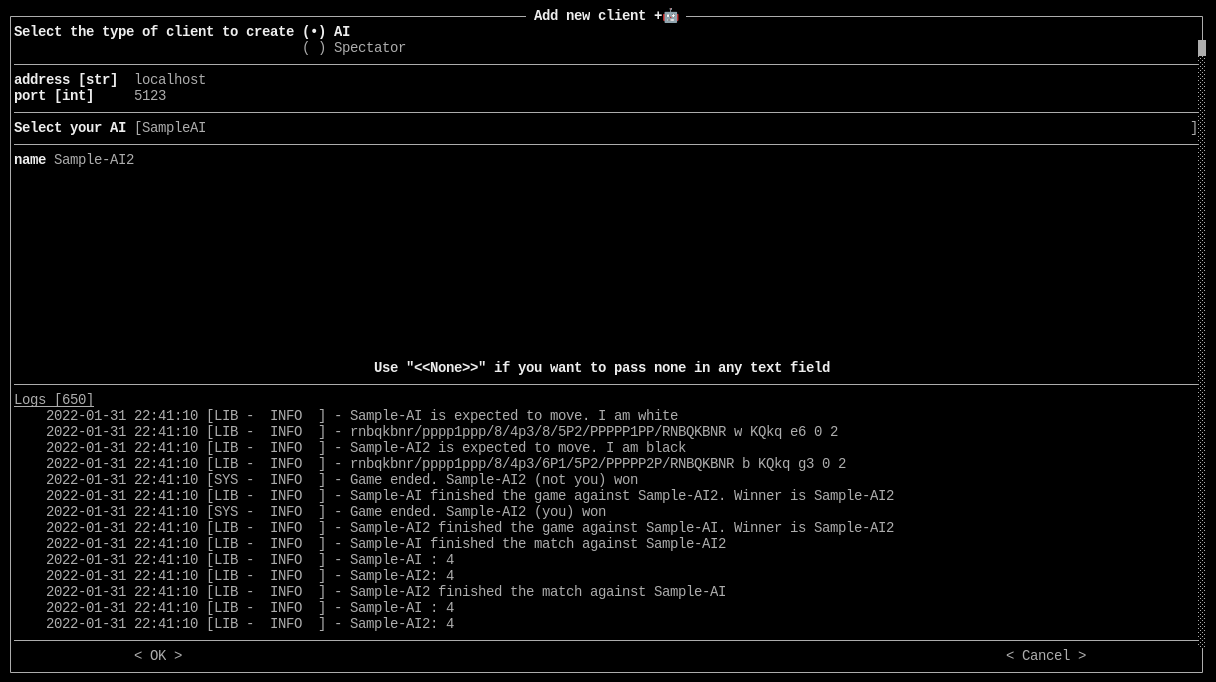
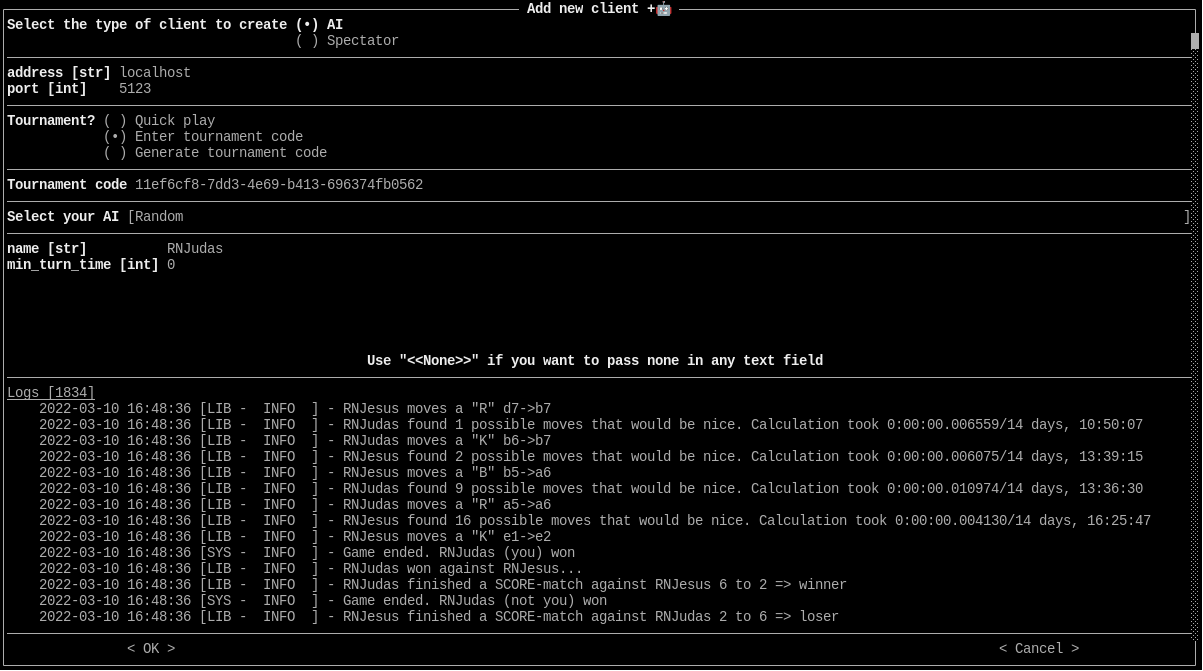
Implemented tournament code for AIs

Changed region(s): [[0.0, 0.0, 1.0, 1.0], [0.2768, 0.5067, 0.7074, 0.5663], [0.8612, 0.775, 0.8919, 0.8048]]

diff --git a/j_chess_client_manager/ui/frames/client_view.py b/j_chess_client_manager/ui/frames/client_view.py
@@ -1,11 +1,13 @@
 from enum import Enum
 import inspect
 from typing import Dict, Callable, Any
+from uuid import uuid4, UUID
 
+import pyperclip
 from asciimatics.exceptions import NextScene, ResizeScreenError, StopApplication, InvalidFields, Highlander
 from asciimatics.screen import Screen
 from asciimatics.widgets import (
-    Frame, Layout, Text, TextBox, Button, DropdownList, RadioButtons, Label, Divider, PopUpDialog
+    Frame, Layout, Text, TextBox, Button, DropdownList, RadioButtons, Label, Divider, PopUpDialog, CheckBox
 )
 from j_chess_lib.ai import AI, StoreAI, DumbAI
 from j_chess_lib.ai.Sample import SampleAI
@@ -49,9 +51,15 @@ class ClientView(Frame):
         # Create the form for displaying the list of contacts.
         selection_layout = Layout([100], fill_frame=False)
         self._type_layout = Layout([100], fill_frame=False)
+        self._tournament_selection_layout = Layout([100], fill_frame=False)
+        self._tournament_layout = Layout([100], fill_frame=False)
+        self._component_selection_layout = Layout([100], fill_frame=False)
         self._component_layout = Layout([100], fill_frame=True)
         self.add_layout(selection_layout)
         self.add_layout(self._type_layout)
+        self.add_layout(self._tournament_selection_layout)
+        self.add_layout(self._tournament_layout)
+        self.add_layout(self._component_selection_layout)
         self.add_layout(self._component_layout)
         selection_layout.add_widget(self._type_selector)
 
@@ -80,6 +88,64 @@ class ClientView(Frame):
             self._type_layout.add_widget(widget)
 
         self._type_layout.add_widget(Divider())
+
+        tournament_selector = [None]
+
+        def tournament_selection():
+            self._tournament_layout.clear_widgets()
+            selected_tournament = tournament_selector[0].value
+            _editable = False
+            if selected_tournament == 0:
+                return
+            elif selected_tournament == 1:
+                _tournament_code = str(uuid4())
+                try:
+                    pyperclip.copy(_tournament_code)
+                    self.scene.add_effect(PopUpDialog(
+                        screen=self.screen,
+                        text=f"Created tournament code {_tournament_code} and copied it to your clipboard",
+                        buttons=["Ok"],
+                        on_close=None)
+                    )
+                except pyperclip.PyperclipException as e:
+                    self.scene.add_effect(PopUpDialog(
+                        screen=self.screen,
+                        text=f"Created tournament code {_tournament_code} but could not copy it to your clipboard.\n"
+                             f"{e}",
+                        buttons=["Ok"],
+                        on_close=None)
+                    )
+                _editable = False
+            else:
+                _tournament_code = "Enter Code here"
+                _editable = True
+
+            def _validator(_uuid):
+                # noinspection PyBroadException
+                try:
+                    _ = UUID(_uuid)
+                    if _.version != 4:
+                        raise Exception()
+                except Exception:
+                    return False
+                return True
+
+            tc_widget = Text(label="Tournament code", name="Client__Tournament_code", readonly=not _editable,
+                             validator=_validator)
+            tc_widget.value = _tournament_code
+            self._tournament_layout.add_widget(tc_widget)
+            self._tournament_layout.add_widget(Divider())
+            self.fix()
+
+        tournament_selector[0] = RadioButtons(
+            options=[("Quick play", 0), ("Enter tournament code", 2), ("Generate tournament code", 1)],
+            label="Tournament?",
+            name="Client__Tournament_selection",
+            on_change=tournament_selection
+        )
+
+        self._tournament_selection_layout.add_widget(tournament_selector[0])
+        self._tournament_selection_layout.add_widget(Divider())
 
         available_ais = get_all_ais()
         # SYSTEM_LOGGER.info(f"Found {len(available_ais)} AI classes")
@@ -116,12 +182,12 @@ class ClientView(Frame):
             setup_components()
 
             # noinspection PyTypeChecker
-            self._type_layout.add_widget(ai_selector[0])
-            self._type_layout.add_widget(Divider())
+            self._component_selection_layout.add_widget(ai_selector[0])
+            self._component_selection_layout.add_widget(Divider())
         else:
-            self._type_layout.add_widget(Label("You have to provide at least one implemented AI-class.\n"
-                                               "Maybe you forgot to include the package its in? If so"
-                                               "use --with-package to point to it"))
+            self._component_selection_layout.add_widget(Label("You have to provide at least one implemented AI-class.\n"
+                                                              "Maybe you forgot to include the package its in? If so"
+                                                              "use --with-package to point to it"))
 
     def _build_spectator_ui(self):
         self._type_layout.add_widget(Label("Spectators are not yet supported... :("))
@@ -129,6 +195,9 @@ class ClientView(Frame):
 
     def _select_type(self):
         self._type_layout.clear_widgets()
+        self._tournament_selection_layout.clear_widgets()
+        self._component_selection_layout.clear_widgets()
+        self._tournament_layout.clear_widgets()
         self._component_layout.clear_widgets()
         t = self._type_selector.value
         if t == ClientTypes.AI:
@@ -155,11 +224,18 @@ class ClientView(Frame):
         }
         connection = Connection(**connection_parameters)
 
-        ai = wrap_ai(ai_class, init_values=ai_parameter, need_update=self._invalidate_frame)
+        tournament_code = None if \
+            self.data["Client__Tournament_selection"] <= 0 else \
+            self.data["Client__Tournament_code"]
+
+        ai = wrap_ai(ai_class, init_values=ai_parameter, need_update=self._invalidate_frame,
+                     tournament_code=tournament_code)
         SYSTEM_LOGGER.info(f"Created connection {connection}; Created AI {ai}")
-        client = Client(connection=connection, ai=ai)
+        client = Client(connection=connection, ai=ai, tournament_code=tournament_code)
         client.start()
-        SYSTEM_LOGGER.info(f"Started client {client}")
+        SYSTEM_LOGGER.info(
+            f"Started client {client}{'' if tournament_code is None else f' for tournament {tournament_code}'}"
+        )
         self._ai_adder(ai)
         # raise Exception(f"{pformat(connection_parameters)}\n{ai_class}\n{pformat(ai_parameter)}")
 

diff --git a/j_chess_client_manager/clients/ai_wrapper.py b/j_chess_client_manager/clients/ai_wrapper.py
@@ -11,13 +11,18 @@ from j_chess_client_manager.logging import SYSTEM_LOGGER
 
 
 def wrap_ai(
-    base_ai: Type[AI], init_values: Dict[str, Any], need_update: Callable[[Union[AI, SuperProvider]], None] = None
+    base_ai: Type[AI], init_values: Dict[str, Any], need_update: Callable[[Union[AI, SuperProvider]], None] = None,
+    tournament_code: Optional[str] = None
 ) -> Union[AI, SuperProvider]:
     if need_update is None:
         def need_update(*args, **kwargs):
             pass
 
     class _WrappedAI(SuperProvider, base_ai):
+
+        @property
+        def tournament_code(self) -> Optional[str]:
+            return tournament_code
 
         def __init__(self, base_init_values: Dict[str, Any]):
             super(_WrappedAI, self).__init__(**base_init_values)

diff --git a/j_chess_client_manager/ui/frames/main_frame.py b/j_chess_client_manager/ui/frames/main_frame.py
@@ -94,7 +94,14 @@ class MainFrame(Frame):
                 return _x.name
             except AttributeError:
                 return _x.__class__.__name__
-        self._ai_list.options = [(f"{x.get_client_type().fixed_represent()} {get_name(x)}", x) for x in self._ais]
+        def get_tournament_code(_x: SuperProvider):
+            try:
+                return f" [{_x.tournament_code}]" if _x.tournament_code else ""
+            except AttributeError:
+                return ""
+        self._ai_list.options = [
+            (f"{x.get_client_type().fixed_represent()} {get_name(x)}{get_tournament_code(x)}", x) for x in self._ais
+        ]
 
     @property
     def current_client(self) -> Optional[SuperProvider]:

diff --git a/j_chess_client_manager/clients/__init__.py b/j_chess_client_manager/clients/__init__.py
@@ -6,6 +6,7 @@ from j_chess_lib.ai import AI
 
 from .metrics import MetricProvider
 from .board import BoardProvider
+from .tournament import TournamentParticipator
 from .refresh import RefreshInitiator
 
 
@@ -46,7 +47,7 @@ class Typeable:
         return ClientTypes.Unknown
 
 
-class SuperProvider(BoardProvider, Typeable, ABC):
+class SuperProvider(BoardProvider, TournamentParticipator, Typeable, ABC):
     pass
 
 

diff --git a/setup.py b/setup.py
@@ -13,7 +13,7 @@ try:
 except FileNotFoundError:
     history = ""
 
-requirements = ["j-chess-lib", "asciimatics"]
+requirements = ["j-chess-lib>=0.7.0", "asciimatics", "pyperclip"]
 
 test_requirements = [ ]
 

diff --git a/j_chess_client_manager/clients/tournament.py b/j_chess_client_manager/clients/tournament.py
@@ -1,0 +1,9 @@
+from abc import ABC
+from typing import Optional
+
+
+class TournamentParticipator(ABC):
+
+    @property
+    def tournament_code(self) -> Optional[str]:
+        return None

diff --git a/j_chess_client_manager/ui/utilities/__init__.py b/j_chess_client_manager/ui/utilities/__init__.py
@@ -1,3 +1,4 @@
+# noinspection PyUnresolvedReferences
 from inspect import Parameter, _empty, isclass
 from typing import Callable, Any, Tuple, List, Type, Set
 
